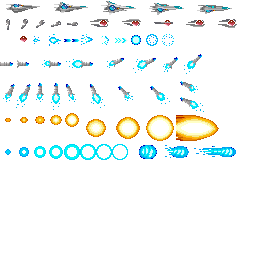
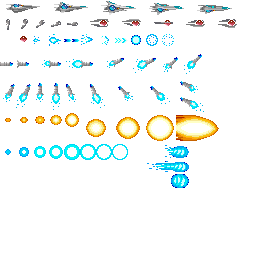
speed power up fixed

Changed region(s): [[0.5312, 0.5625, 0.75, 0.75], [0.7812, 0.5625, 0.9375, 0.625]]

diff --git a/ModulePlayer.cpp b/ModulePlayer.cpp
@@ -27,6 +27,12 @@ ModulePlayer::ModulePlayer()
 	idle.loop = true;
 	idle.speed = 0.1f;
 	
+	nitro.PushBack({146,174,42,14});
+	nitro.PushBack({146,145,42,14});
+	nitro.PushBack({146,160,42,14});
+	nitro.loop = true;
+	nitro.speed = 0.2f;
+
 	forward.PushBack({ 97, 0, 48, 16 });
 	forward.loop = false;
 	forward.speed = 0.1f;
@@ -74,6 +80,11 @@ bool ModulePlayer::Start()
 
 	current_animation = &idle;
 
+	speed = 2;
+	 
+	nitroanim = false;
+
+
 	start_time = 0;
 	dead = false;
 
@@ -94,7 +105,17 @@ bool ModulePlayer::Start()
 // Update: draw background
 update_status ModulePlayer::Update()
 {
+	if (nitroanim) {
+		if (counter < 40000) {
+			App->render->Blit(graphics, position.x - 35, position.y + 2, &(nitro.GetCurrentFrame()));
+			counter +=1;
+		}
+		else
+			counter = 0;
+			nitroanim = false;
+	}
 
+	
 	if (App->input->keyboard[SDL_SCANCODE_F5] == KEY_DOWN)
 	{
 		godmode = !godmode;
@@ -103,7 +124,6 @@ update_status ModulePlayer::Update()
 	App->font->BlitText(0, 0, App->player->font_score, _godmode);
 
 	if (enable_movement) {
-		int speed = 2;
 
 		if (App->input->keyboard[SDL_SCANCODE_D] == KEY_STATE::KEY_REPEAT)
 		{
@@ -268,6 +288,7 @@ void ModulePlayer::resetPlayer() {
 	App->player->position.y = 100;
 	App->player->enable_movement = true;
 }
+
 
 bool ModulePlayer::AddTentacles() {
 

diff --git a/ModulePowerUp.cpp b/ModulePowerUp.cpp
@@ -43,6 +43,12 @@ bool ModulePowerUp::Start()
 	tentacles_powerup.type = TENTACLES_POWERUP;
 	tentacles_powerup.enabled = false;
 
+	speed_powerup.anim.PushBack({68, 74, 24, 13});
+	speed_powerup.anim.PushBack({164, 74, 24, 13});
+	speed_powerup.anim.loop = true;
+	speed_powerup.anim.speed = 0.2f;
+	speed_powerup.type = SPEED_POWERUP;
+	speed_powerup.enabled = false;
 	return ret;
 }
 
@@ -161,6 +167,10 @@ void PowerUp::PU_Effect()
 		break;
 	case BOMB_POWERUP:
 		App->player->powerup[BOMB_SHOOT] = true;
+		break;
+	case SPEED_POWERUP:
+		App->player->speed += 1;
+		App->player->nitroanim=true;
 		break;
 	}
 }

diff --git a/ModulePlayer.h b/ModulePlayer.h
@@ -24,6 +24,9 @@ public:
 
 public:
 	bool enable_movement = false;
+	bool nitroanim = false;
+	int counter = 0;
+	int speed = 2;
 	SDL_Texture * graphics = nullptr;
 	int font_score = -1;
 	int font_gameover = -1;
@@ -32,6 +35,7 @@ public:
 	Mix_Chunk* death_fx;
 	Animation idle;
 	Animation forward;
+	Animation nitro;
 	Animation backward;
 	Animation upward;
 	Animation downward;

diff --git a/Enemy_PowerupShip.cpp b/Enemy_PowerupShip.cpp
@@ -29,6 +29,8 @@ Enemy_PowerupShip::Enemy_PowerupShip(int x, int y, uint PU) : Enemy(x, y)
 	case 2: 
 		p = App->powerup->AddPowerUp(App->powerup->bomb_powerup, position.x + 2, position.y + 10, COLLIDER_POWERUP); 
 		break;
+	case 3:
+		p= App->powerup->AddPowerUp(App->powerup->speed_powerup, position.x + 2, position.y + 10, COLLIDER_POWERUP);
 	}
 }
 

diff --git a/ModuleSceneStage1.cpp b/ModuleSceneStage1.cpp
@@ -475,6 +475,5 @@ void ModuleSceneStage1::AddEnemies(){
 
 	App->enemies->AddEnemy(POWERUPSHIP, 600, 130, 1);
 	App->enemies->AddEnemy(POWERUPSHIP, 1050, 100, 2);
-	App->enemies->AddEnemy(POWERUPSHIP, 1075, 75);
-	App->enemies->AddEnemy(POWERUPSHIP, 1200, 100);
+	App->enemies->AddEnemy(POWERUPSHIP, 1075, 75, 3);
 }

diff --git a/ModulePowerUp.h b/ModulePowerUp.h
@@ -24,6 +24,7 @@ enum POWERUP_TYPE
 	_NONE,
 	TENTACLES_POWERUP,
 	BOMB_POWERUP,
+	SPEED_POWERUP
 };
 
 
@@ -67,6 +68,7 @@ public:
 
 	PowerUp bomb_powerup;
 	PowerUp tentacles_powerup;
+	PowerUp speed_powerup;
 
 private:
 
